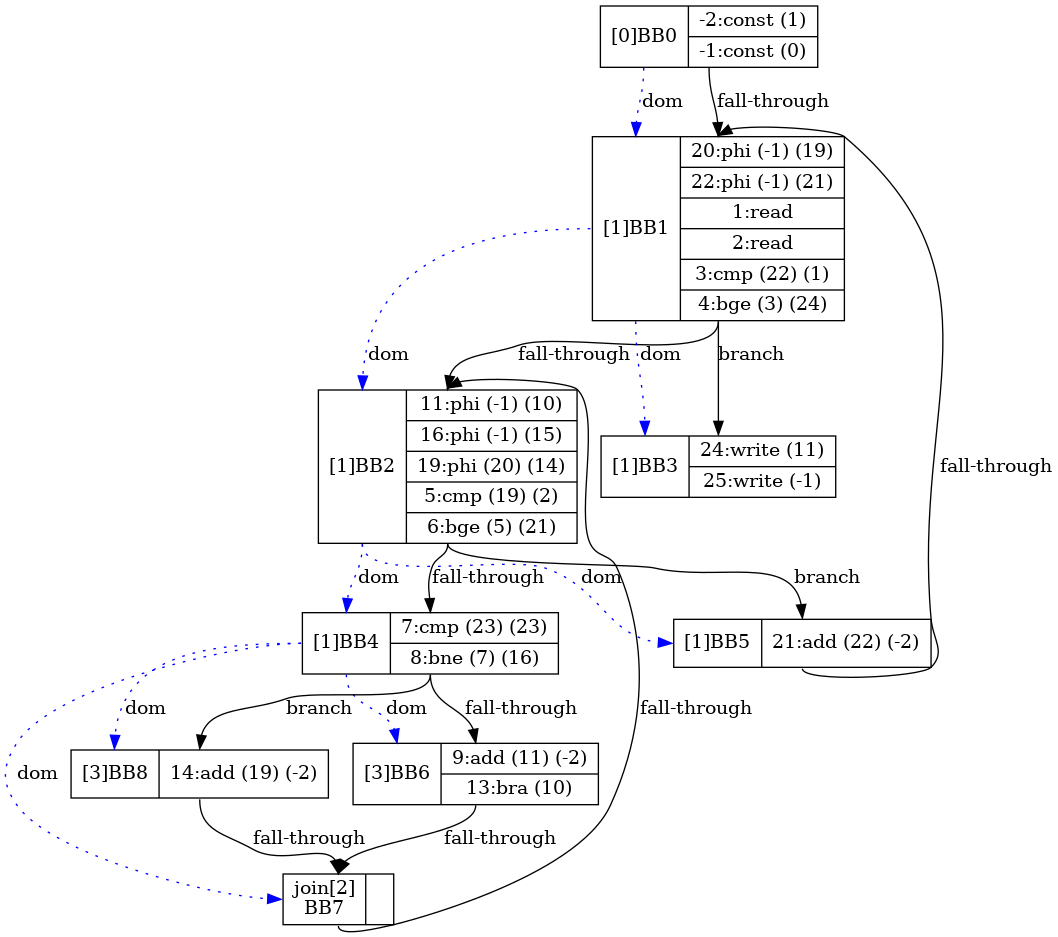
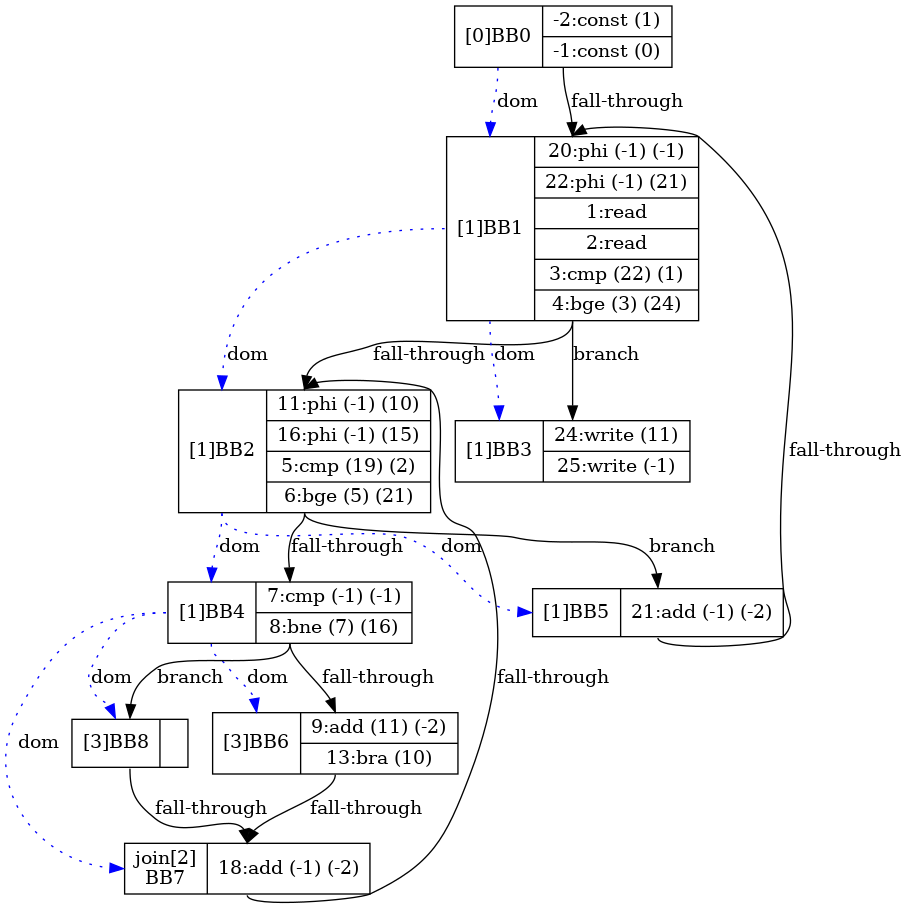
todo - issue [nested_nested_if_while1.ty] resume last nested file (created Parser::getIfHead(then_blk) to propagateDown() until ifHead to prevent mis-assigning wrong branch's blk [see Parser.hpp - conditionalStmtPhiUpdate - 1335]); todo - funcCalls; todo - valgrind

diff --git a/src/Parser.hpp b/src/Parser.hpp
@@ -403,9 +403,11 @@ public:
             if (this->prevInstr->get_operator() == 8) {
                 this->prevInstr = this->set_operand(1, this->prevInstr, instr);
                 // this->prevInstr->set_operand1(instr);
+                this->prevInstr->setIdents(instr->getIdent(), -1);
             } else {
                 this->prevInstr = this->set_operand(2, this->prevInstr, instr);
                 // this->prevInstr->set_operand2(instr);
+                this->prevInstr->setIdents(this->prevInstr->getXIdent(), instr->getIdent());
             }
 
             // this->prevJump = false;
@@ -749,7 +751,10 @@ public:
                         // [12.16.2024]: in mainWhile and no phi? create it
                         #ifdef DEBUG
                             std::cout << "mainWhile and no phi? create it. " << std::endl;
+                            std::cout << "\tcurr oldVal looks like: " << oldVal->toString() << std::endl;
+                            std::cout << "\t" << BasicBlock::ssa_table.at(curr->varVals.at(ident))->toString() << std::endl;;
                         #endif
+                        SSA *tmpOldVal = BasicBlock::ssa_table.at(curr->varVals.at(ident));
                         BasicBlock *tmp = this->currBB;
                         this->currBB = curr;
 
@@ -761,6 +766,7 @@ public:
                         curr->updateInstructions(prevVal, BasicBlock::ssa_table.at(ident_val));
                         
                         this->currBB = tmp;
+                        oldVal = tmpOldVal;
                         #ifdef DEBUG
                             std::cout << "mainWhiel-blk looks like: " << std::endl << curr->toString() << std::endl;
                         #endif
@@ -1026,6 +1032,31 @@ public:
         return (r1 || r2);
     }
 
+    // assumes we know we are in an if-statement sequence
+    inline BasicBlock* getIfHead(BasicBlock *then_blk) {
+        if (std::find(this->blksSeen.begin(), this->blksSeen.end(), then_blk->blockNum) == this->blksSeen.end()) {
+            this->blksSeen.push_back(then_blk->blockNum);
+
+            if (then_blk->newInstrs.size() >= 2) {
+                SSA *last1 = then_blk->newInstrs.at(then_blk->newInstrs.size() - 1)->instr;
+                SSA *last2 = then_blk->newInstrs.at(then_blk->newInstrs.size() - 2)->instr;
+                
+                // [cmp] && [some branch(x, y)]
+                if (last2->get_operator() == 5 && ((last1->get_operator() > 8) && (last1->get_operator() < 15))) {
+                    return then_blk;
+                }
+            }
+
+        }
+        BasicBlock *r1 = nullptr, *r2 = nullptr;
+        if (then_blk->parent) {
+            r1 = this->getIfHead(then_blk->parent);
+        } else if (then_blk->parent2) {
+            r2 = this->getIfHead(then_blk->parent2); // [1.10.2025]: will this ever happen?
+        }
+        return (r1) ? r1 : (r2 ? r2 : nullptr);
+    }
+
     // [12.08.2024]: this func should only be run in [p2_assignment()]
     // - assumes we know we are in a loop
     inline BasicBlock* getLoopHead() {
@@ -1233,6 +1264,9 @@ public:
 
                 if (this->currBB->varVals.find(p) != this->currBB->varVals.end()) {
                     SSA *currVal = BasicBlock::ssa_table.at(this->currBB->varVals.at(p));
+                    if (currVal->get_operator() != 6) { // if not phi, then must be oldVal
+                        prevVal = currVal;
+                    }
                     #ifdef DEBUG
                         std::cout << "conditionalStmtPhiUpdate's [currBB==join-blk], ident's prev Value is: [" << currVal->toString() << "]" << std::endl;
                     #endif
@@ -1297,8 +1331,15 @@ public:
                 #ifdef DEBUG
                     std::cout << "currBB after updtae: " << std::endl << this->currBB->toString() << std::endl;
                 #endif
-                
-                this->propagateDown(this->currBB, p, prevVal, phi_table_int, true);
+
+                this->blksSeen.clear();
+                BasicBlock *ifHead = this->getIfHead(then_blk_last);
+                #ifdef DEBUG
+                    std::cout << "got ifHead: " << std::endl << ifHead->toString() << std::endl;
+                #endif
+
+
+                this->propagateDown(this->currBB, p, prevVal, phi_table_int, true, {ifHead});
                 
                 #ifdef DEBUG
                     std::cout << "phi_instr: " << phi_instr->toString() << std::endl;
